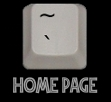
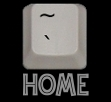
moved main env to start page

Changed region(s): [[0.1081, 0.7059, 0.8919, 0.9412]]

diff --git a/static/about.html b/static/about.html
@@ -14,7 +14,7 @@
    <link rel="stylesheet" href="/css/normalize.css">
    <link rel="shortcut icon" href="favicon.ico" />
    <link href="http://fonts.googleapis.com/css?family=Open+Sans" rel="stylesheet" type="text/css">
-   <link href="/css/index.css" rel='stylesheet' type='text/css'>
+   <link href="/css/about.css" rel='stylesheet' type='text/css'>
    <script src="/js/lib/modernizr-2.6.2.min.js"></script>
 </head>
 <body>
@@ -66,38 +66,24 @@
 
 <div class="container">
    <div class="text-block">
-      <h2>Usage</h2>
+      <h2>Environments</h2>
       <hr />
-      Watch the scene below as a refresher, then hold onto your butts and launch the Irix environment (remember "help" for the command list):
    </div>
-
-   <div id="action-frame">
-      <div class="inline">
-         <iframe width="560" height="315" src="http://www.youtube.com/embed/RfiQYRn7fBg" frameborder="0" allowfullscreen></iframe>
-      </div>
-
-      <a href="/system">
-         <div id="launch-button" class="inline">
-            <img src="/img/launch.jpg" />
-         </div>
-      </a>
-   </div>
-</div>
-
-<div class="container">
-   <div class="text-block">
-      <h2>Miscellaneous</h2>
-      <hr />
       <ul>
          <li>
-         Isolated mac environment: <a class="button" href="/theking">launch</a>
+         Main: <a class="button" href="/system">main</a>
+         </li>
+         <li>
+         Main (with video intro): <a class="button" href="/">main with intro</a>
+         </li>
+         <li>
+         Isolated Mac environment: <a class="button" href="/theking">mac</a>
          </li>
          <li>
          error page: <a class="button" href="/error">error</a>
          </li>
       </ul>
    </div>
-</div>
 
 <div class="container">
    <div class="text-block">

diff --git a/static/js/jurassicSystems.js b/static/js/jurassicSystems.js
@@ -112,7 +112,7 @@
           magicWord = inputLine.trim().substring(inputLine.lastIndexOf(' '));
 
       if (arg === '') {
-         $('#main-input').append($('<span/>').text('access: must specify a target.'));
+         $('#main-input').append($('<span/>').text('access: must specify a target'));
 
          return;
       } else if (inputLine.split(' ').length > 2 && magicWord.trim() === 'please') {
@@ -265,7 +265,8 @@
       $('.mac-window').draggable();
 
       // attempt to cache objects
-      $(['theKingBlur.jpg',
+      $(['introBackground.png',
+         'theKingBlur.jpg',
          'theKingFocus.jpg',
          'macHDBlur.jpg',
          'asciiNewman.jpg',
@@ -281,10 +282,14 @@
       setTimeout(function() {
          $('#irix-boot').remove();
          $('#main-buffer').focus();
-         $('#intro').show();
-         $('#skip-intro').click(function() {
-            $('#intro').hide();
-         });
+
+         if (!location.pathname.match(/system/)) {
+            $('#intro').show();
+            $('#intro').click(function() {
+               $(this).fadeOut(1000);
+               $('#intro-scene').attr('src', '');
+            });
+         }
       }, 4500);
 
       // listeners

diff --git a/static/jurassicSystems.html b/static/jurassicSystems.html
@@ -20,13 +20,12 @@
    <!--[if lt IE 7]>
    <p class="browsehappy">You are using an <strong>outdated</strong> browser. Please <a href="http://browsehappy.com/">upgrade your browser</a> to improve your experience.</p>
    <![endif]-->
-<div id="home-key"><a href="/"><img src="/img/homeKey.jpg" /></a></div>
+<div id="home-key"><a href="/about"><img src="/img/homeKey.jpg" /></a></div>
 <div id="irix-boot"><img id="boot-dialogue" src="/img/irixBoot.gif"></img></div>
 <div id="intro">
    <div id="intro-box">
-      <iframe width="560" height="315" src="http://www.youtube.com/embed/RfiQYRn7fBg" frameborder="0" allowfullscreen=""></iframe>
-   <div id="skip-intro">skip</div>
-   
+      <iframe id="intro-scene" width="560" height="315" src="http://www.youtube.com/embed/RfiQYRn7fBg?showinfo=0" frameborder="0" allowfullscreen=""></iframe>
+      <div id="intro-text">Watch the above scene from Jurassic Park, then hold onto your butts and press continue to launch the recreation. Type <strong>"help"</strong> into the console to see a list of commands.</div><div id="intro-divider"></div><div id="continue-button"><img src="/img/continueButton.png"></div>
    </div>
 </div>
 <div id="environment">

diff --git a/static/css/jurassicSystems.css b/static/css/jurassicSystems.css
@@ -28,28 +28,48 @@ body {
    position: absolute;
    display: none;
    background: url('/img/introBackground.png');
-   text-align: center;
    z-index: 60000;
    margin-left: 10px;
    margin-top: 10px;
+   color: #bbb;
+}
+
+#intro-scene {
+   display: block;
 }
 
 #intro-box {
-   position: absolute;
-   top: 122.5px;
+   position: fixed;
+   top: 170px;
    left: 278px;
    background: black;
-   height: 350px;
    padding: 20px;
 }
 
-#skip-intro {
-   color: white;
-   font-size: 30px;
+#intro-text {
+   width: 450px;
+   color: #cdcdcd;
+   font-family: Helvetica;
+   font-size: 15px;
+   margin-top: 17px;
+   display: inline-block;
+}
+
+#intro-divider {
+   height: 50px;
+   margin-left: 10px;
+   margin-right: 10px;
+   display: inline-block;
+   border-left: solid 1px #777777;
+}
+
+#continue-button {
+   display: inline-block;
+   margin-top: 20px;
+}
+
+#continue-button:hover {
    cursor: pointer;
-   position: absolute;
-   bottom: 5px;
-   right: 5px;
 }
 
 #boot-dialogue {

diff --git a/static/errorPage.html b/static/errorPage.html
@@ -77,7 +77,7 @@
       <div class="error-box">
          <img src="/img/dennisNoGlasses.jpg" />
          <div class="error-message">My glasses... I can't see without my glasses!</div>
-         <div class="error-body">You have taken a wrong turn or failed to stay in the jeep. Please return to the <a href="/">home page</a> at once.</div>
+         <div class="error-body">You have taken a wrong turn or failed to stay in the jeep. Please return to the <a href="/about">home page</a> at once.</div>
       </div>
    </body>
 </html>

diff --git a/static/theKing.html b/static/theKing.html
@@ -20,7 +20,7 @@
    <!--[if lt IE 7]>
    <p class="browsehappy">You are using an <strong>outdated</strong> browser. Please <a href="http://browsehappy.com/">upgrade your browser</a> to improve your experience.</p>
    <![endif]-->
-<div id="home-key"><a href="/"><img src="/img/homeKey.jpg" /></a></div>
+<div id="home-key"><a href="/about"><img src="/img/homeKey.jpg" /></a></div>
 <div id="apple-desktop">
    <div id="mac-hd-window">
    </div>

diff --git a/static/css/about.css b/static/css/about.css
@@ -76,6 +76,7 @@ td,th {
    font-family: 'Arial';
    text-shadow:0 1px 1px #FFFFFF;
    padding:5px 10px;
+   margin: 2px;
 }
 
 .container {
